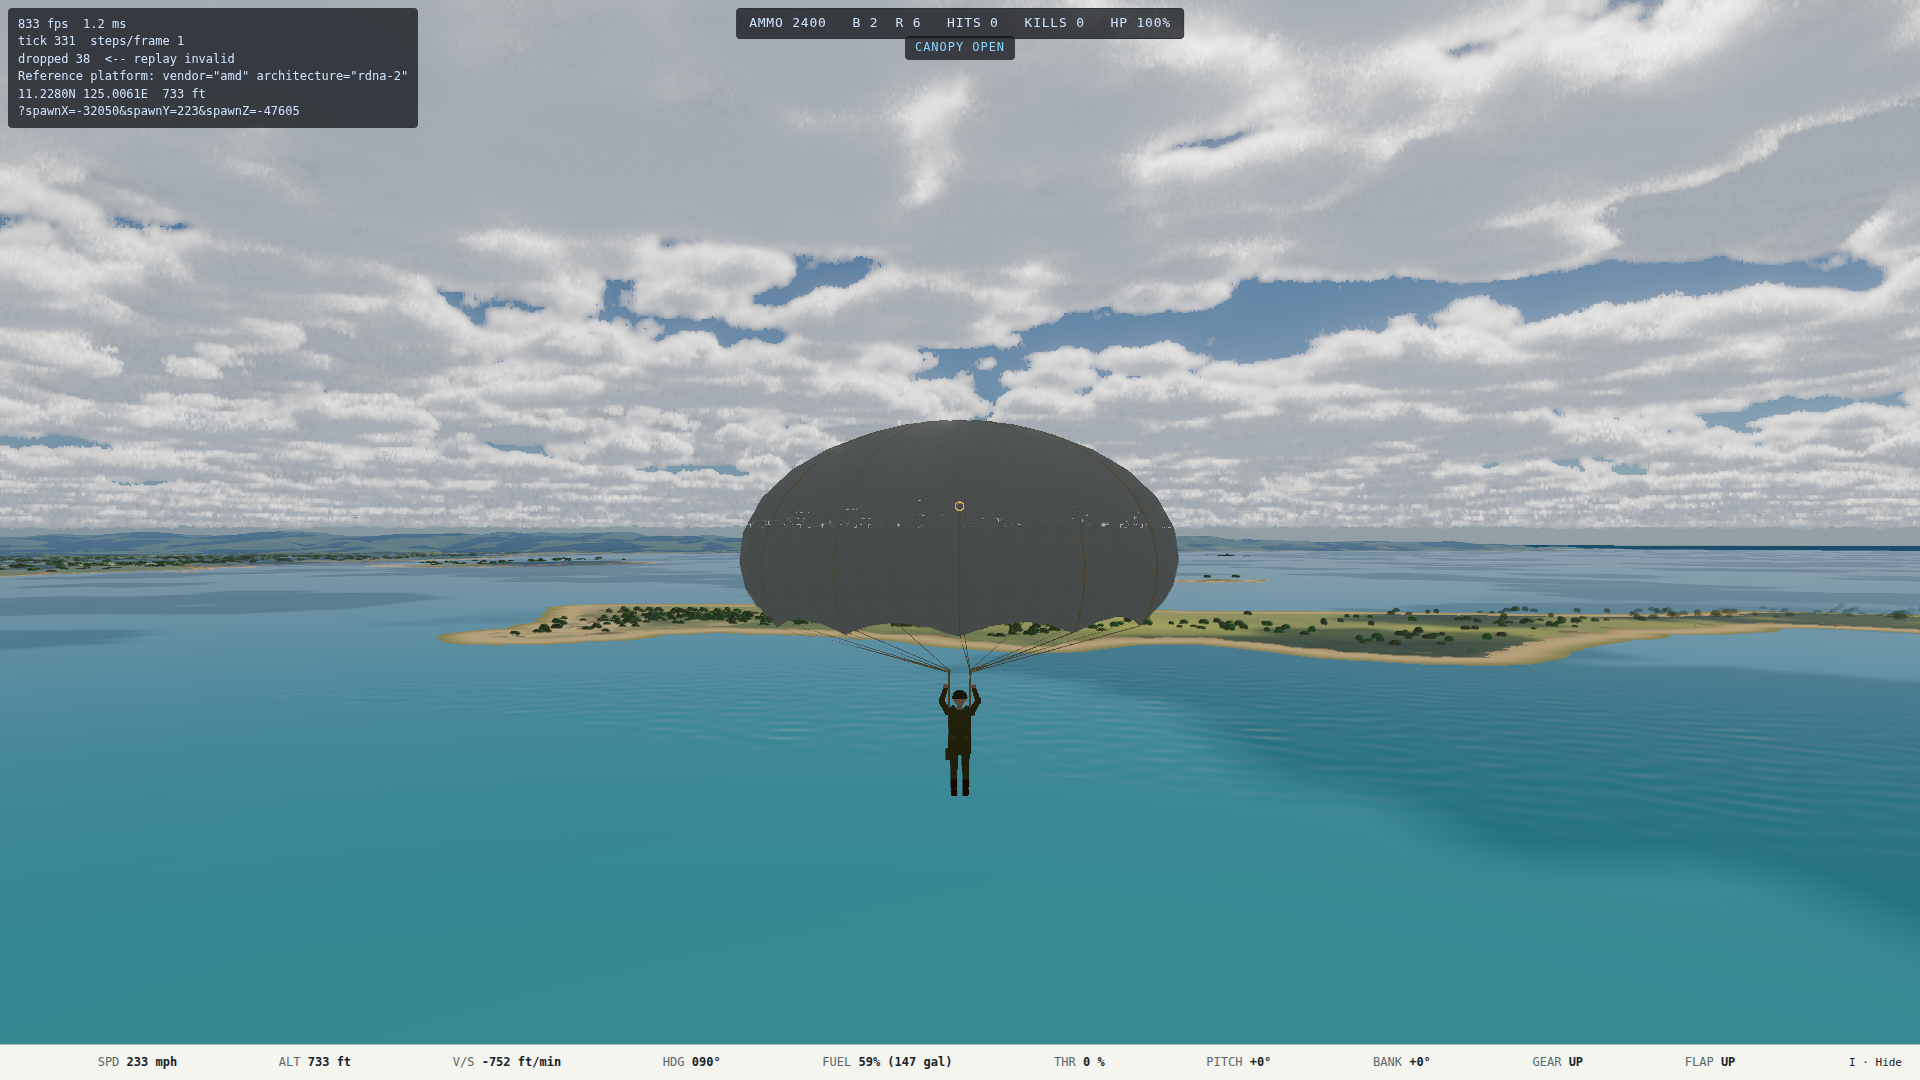
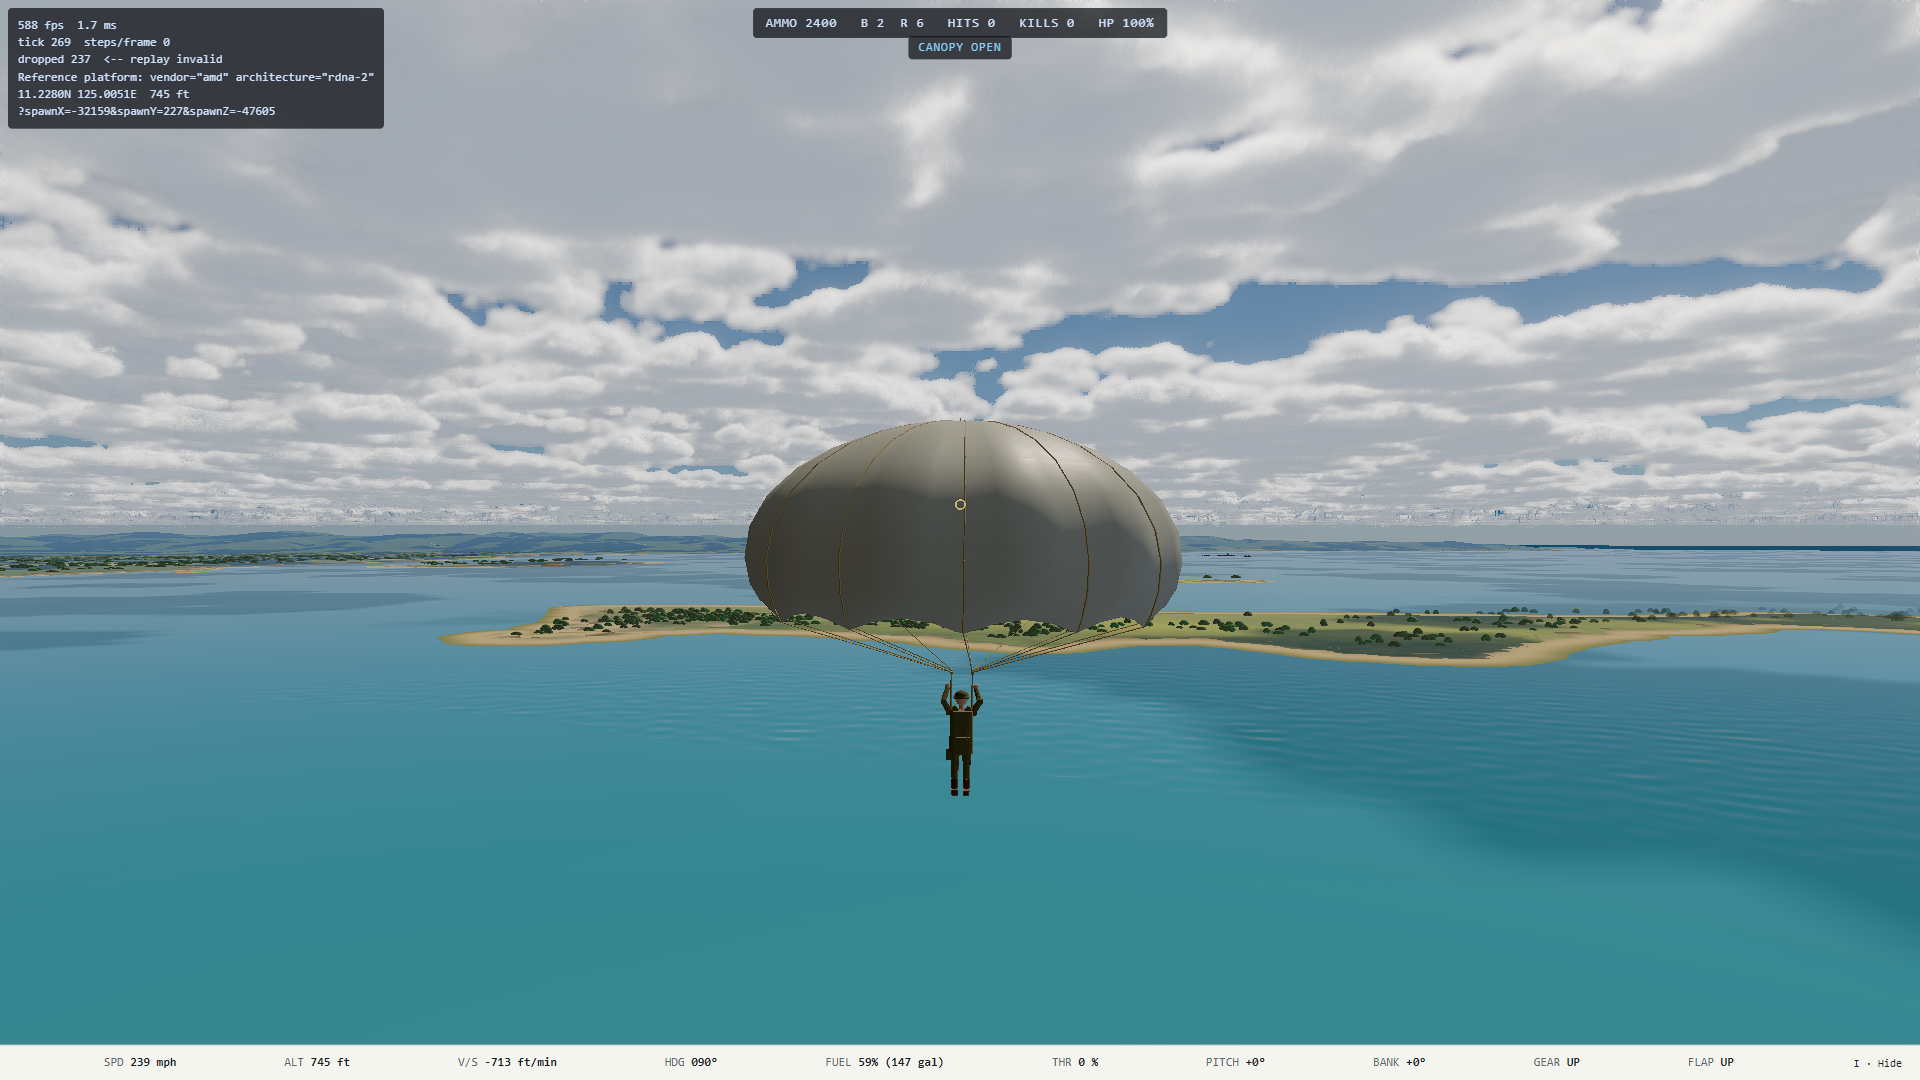
F7A: ryzen-GPU captures (lit airplane after the lighting hotfix); refusal shot waits for first frames; merge main

diff --git a/tests/e2e/bailoutCapture.spec.ts b/tests/e2e/bailoutCapture.spec.ts
@@ -56,6 +56,7 @@ test('collects final bailout, rescue, and capture evidence', async ({ page }) =>
 
   await page.goto(url({ x: 0, y: 9, z: 0 }))
   await waitForTerrain(page)
+  await page.waitForTimeout(1_500) // let the first frames present: the refusal shot was once a bare sky-blue field
   await page.keyboard.press('KeyJ')
   await expect(page.getByText(/TOO LOW TO BAIL OUT/)).toBeVisible({ timeout: 5_000 })
   await page.screenshot({ path: `${OUT}/06-too-low-refused.png` })

diff --git a/docs/handoff/2026-10-15-f7a-bailout-rescue.md b/docs/handoff/2026-10-15-f7a-bailout-rescue.md
@@ -32,8 +32,7 @@ merged in, and the rework below runs on top. Plan: `docs/superpowers/plans/2026-
 No dev slot is reserved. A loopback dev server for this branch was started on nexus port 5190 (`npx vite --port 5190`,
 loopback only). **Tell me when you want a tunneled slot** (5174 is F6B's, 5175 the lighting fix's).
 
-Reference captures, taken on nexus's local GPU (a 680M; the page reports the reference-platform string because the browser
-reports it, but it is not the ryzen GPU) in `docs/handoff/2026-10-15-f7a-bailout-rescue-shots/`:
+Reference captures, retaken 2026-10-15 on **ryzen's GPU** (console-session Playwright server, slot `ww2airsim-2.windomlane.org`, after the lighting hotfix `aa098745` merged; the airplane is lit normally) in `docs/handoff/2026-10-15-f7a-bailout-rescue-shots/`:
 
 | File | What to look at |
 | --- | --- |
@@ -44,10 +43,8 @@ reports it, but it is not the ryzen GPU) in `docs/handoff/2026-10-15-f7a-bailout
 | `05-low-altitude-failure.png` | A jump from about 200 ft (under the 246 ft rule) is allowed and ends KILLED. |
 | `06-too-low-refused.png` | The refusal message at about 30 ft, pilot still flying. |
 
-Things only your eye finds: the rig's pose and scale under the canopy, the sway amplitude, whether the HUD cue wording
-reads right, and that the airplane silhouette looks dark in these captures (that is the F6A lighting regression on
-models, being fixed separately; do not read it as a bailout defect). **The ryzen reference-GPU pass is not done** (the
-lighting fix is pending and hangar case 15 is red there until it merges); run `npm run capture:e2e -- bailoutCapture.spec.ts` on a tunneled slot when ready.
+Things only your eye finds: the rig's pose and scale under the canopy, the sway amplitude, whether the HUD cue wording reads right.
+The E2E `bailout.spec` (5) and `bailoutCampaign.spec` (1) also pass on ryzen's GPU (6/6, 3.7 min).
 
 ## Tests
 
@@ -76,7 +73,7 @@ architecture boundary tests.
   (comment in `debrief.ts`). Cosmetic.
 - **The instant replay** carries the parachutist in its recorded world (tested), but its automatic camera still follows the
   abandoned airplane, not the pilot. Not changed.
-- **E2E ran on nexus's 680M**, not ryzen. `bailout.spec` 5/5 and `bailoutCampaign` 1/1 pass there. The full E2E suite was not run.
+- Only the two bailout E2E specs were run (ryzen GPU, 6/6; also nexus 680M). The full E2E suite was not run.
 - **Contested odds are a distance heuristic** (`RECOVERY_TUNING`) until F8 gives real territory.
 - The physics is thin (no opening shock or wind blast; touchdown survival is a vertical-speed test), so a 390 kt inverted
   jump lives. That is the ruled arcade behavior, recorded here, not hidden.
